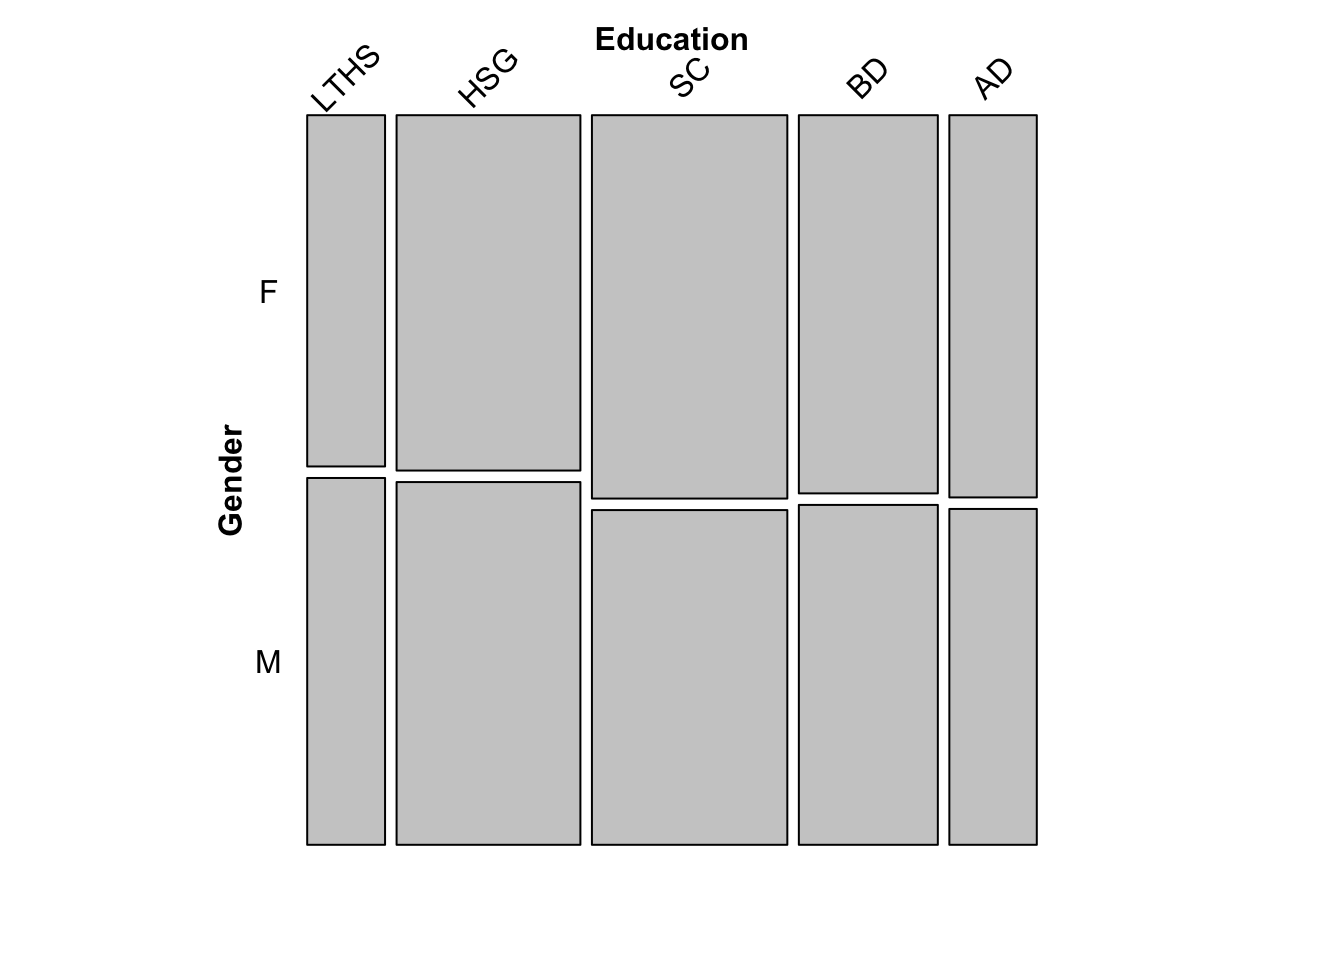
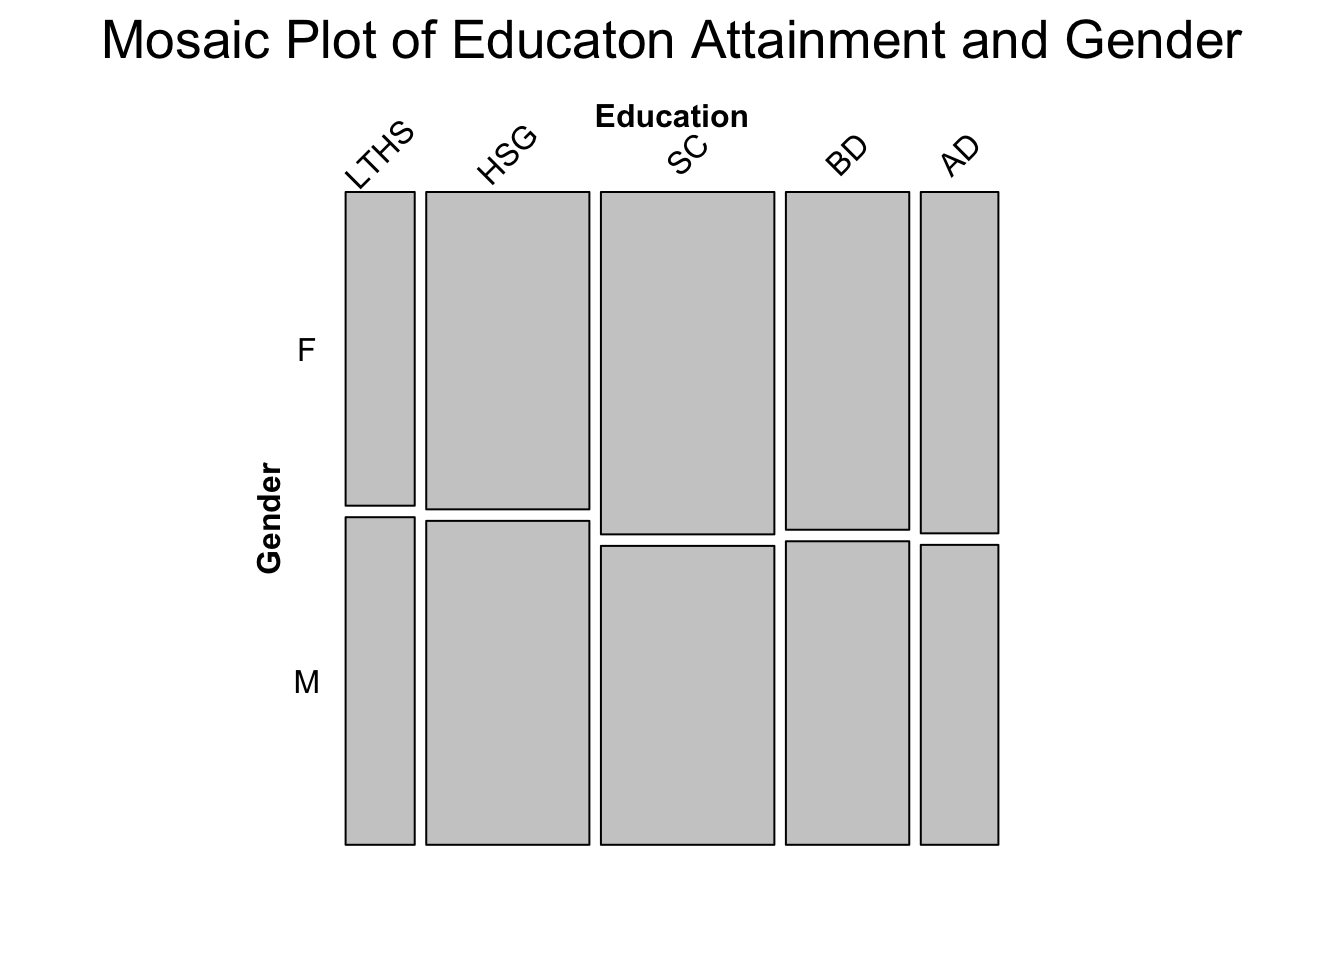
new

Changed region(s): [[0.0625, 0.0, 0.9375, 0.9062]]

diff --git a/docs/results.html b/docs/results.html
@@ -194,10 +194,8 @@ code span.wa { color: #60a0b0; font-weight: bold; font-style: italic; } /* Warni
 <span id="cb16-11"><a href="results.html#cb16-11"></a><span class="st">  </span><span class="kw">ggtitle</span>(<span class="st">&quot;Grouped Bar Chart of Education Attainment in 2019 Differed by Gender&quot;</span>) <span class="op">+</span><span class="st"> </span></span>
 <span id="cb16-12"><a href="results.html#cb16-12"></a><span class="st">  </span><span class="kw">theme_light</span>()</span></code></pre></div>
 <p><img src="bookdownproj_files/figure-html/unnamed-chunk-15-1.png" width="672" /></p>
-<div class="sourceCode" id="cb17"><pre class="sourceCode r"><code class="sourceCode r"><span id="cb17-1"><a href="results.html#cb17-1"></a><span class="co">#mosaic plot : done</span></span>
-<span id="cb17-2"><a href="results.html#cb17-2"></a><span class="co">#x education y gender</span></span>
-<span id="cb17-3"><a href="results.html#cb17-3"></a>dt &lt;-<span class="st"> </span><span class="kw">xtabs</span>(Estimate <span class="op">~</span><span class="st"> </span>Education <span class="op">+</span><span class="st"> </span>Gender, <span class="dt">data=</span>edu2019)</span>
-<span id="cb17-4"><a href="results.html#cb17-4"></a>vcd<span class="op">::</span><span class="kw">mosaic</span>(dt, <span class="dt">direction =</span> <span class="kw">c</span>(<span class="st">&quot;v&quot;</span>, <span class="st">&quot;h&quot;</span>), <span class="dt">labeling =</span> <span class="kw">labeling_border</span>(<span class="dt">rot_labels =</span> <span class="kw">c</span>(<span class="dv">45</span>, <span class="dv">0</span>), <span class="dt">abbreviate_labs =</span> <span class="kw">c</span>(<span class="dv">2</span>, <span class="dv">1</span>)),)</span></code></pre></div>
+<div class="sourceCode" id="cb17"><pre class="sourceCode r"><code class="sourceCode r"><span id="cb17-1"><a href="results.html#cb17-1"></a>dt &lt;-<span class="st"> </span><span class="kw">xtabs</span>(Estimate <span class="op">~</span><span class="st"> </span>Education <span class="op">+</span><span class="st"> </span>Gender, <span class="dt">data=</span>edu2019)</span>
+<span id="cb17-2"><a href="results.html#cb17-2"></a>vcd<span class="op">::</span><span class="kw">mosaic</span>(dt, <span class="dt">direction =</span> <span class="kw">c</span>(<span class="st">&quot;v&quot;</span>, <span class="st">&quot;h&quot;</span>),<span class="dt">highlighting_fill=</span><span class="kw">c</span>(<span class="st">&quot;#edf8fb&quot;</span>,<span class="st">&quot;#b3cde3&quot;</span>), <span class="dt">labeling =</span> <span class="kw">labeling_border</span>(<span class="dt">rot_labels =</span> <span class="kw">c</span>(<span class="dv">45</span>, <span class="dv">0</span>), <span class="dt">abbreviate_labs =</span> <span class="kw">c</span>(<span class="dv">2</span>, <span class="dv">1</span>)),<span class="dt">main=</span> <span class="st">&quot;Mosaic Plot of Educaton Attainment and Gender&quot;</span>)</span></code></pre></div>
 <p><img src="bookdownproj_files/figure-html/unnamed-chunk-16-1.png" width="672" /></p>
 <div class="sourceCode" id="cb18"><pre class="sourceCode r"><code class="sourceCode r"><span id="cb18-1"><a href="results.html#cb18-1"></a><span class="co">#科学计数法: done </span></span>
 <span id="cb18-2"><a href="results.html#cb18-2"></a>race_total &lt;-<span class="st"> </span>race[race<span class="op">$</span>Gender<span class="op">==</span><span class="st">&quot;Total&quot;</span>,]</span>
@@ -380,12 +378,13 @@ code span.wa { color: #60a0b0; font-weight: bold; font-style: italic; } /* Warni
 <span id="cb28-6"><a href="results.html#cb28-6"></a>    )</span>
 <span id="cb28-7"><a href="results.html#cb28-7"></a>ExTitle &lt;-<span class="st"> </span><span class="kw">c</span>( <span class="st">&quot;Dot Plot for Rate of Bachelor Degree or Higher by States in 2019&quot;</span>)</span>
 <span id="cb28-8"><a href="results.html#cb28-8"></a><span class="co">#quartz(width=7.5, height = 10, dpi = 72, pointsize = 10)</span></span>
-<span id="cb28-9"><a href="results.html#cb28-9"></a><span class="kw">pdf</span>(<span class="dt">file=</span><span class="st">&quot;EX4-Scatter-Dots.pdf&quot;</span>,<span class="dt">width=</span><span class="fl">7.5</span>,<span class="dt">height=</span><span class="dv">10</span>)</span>
+<span id="cb28-9"><a href="results.html#cb28-9"></a><span class="co">#pdf(file=&quot;EX4-Scatter-Dots.pdf&quot;,width=7.5,height=10)</span></span>
 <span id="cb28-10"><a href="results.html#cb28-10"></a><span class="kw">micromapST</span>(statesDF,panelDesc,<span class="dt">sortVar=</span><span class="dv">1</span>,<span class="dt">ascend=</span><span class="ot">FALSE</span>,<span class="dt">title=</span>ExTitle)  </span></code></pre></div>
 <pre><code>## End of micromapST processing.</code></pre>
 <pre><code>## No warnings were logged.</code></pre>
 <pre><code>## No stop messages were logged.</code></pre>
 <pre><code>## </code></pre>
+<p><img src="bookdownproj_files/figure-html/unnamed-chunk-26-1.png" width="720" /></p>
 <pre><code>## [1] &quot;micromapST Ends&quot;</code></pre>
 <div class="figure"><span id="fig:unnamed-chunk-27"></span>
 <img src="plot.jpeg" alt="your caption" width="100%" />
